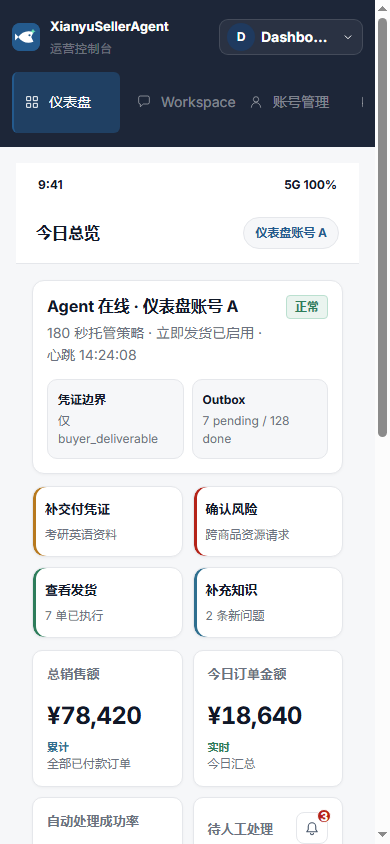
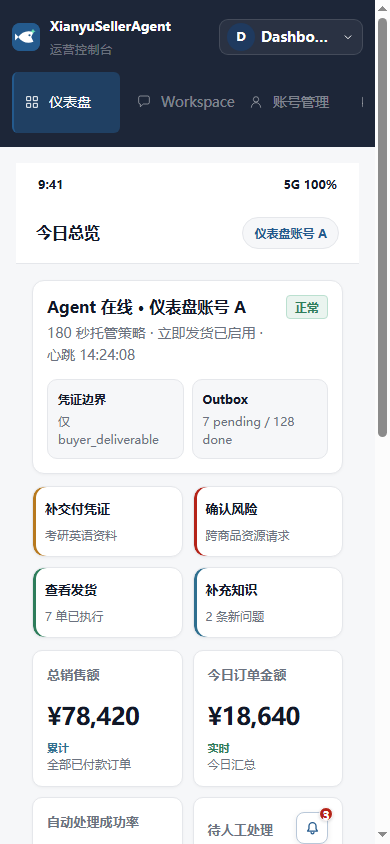
fix(仪表盘): 收紧铃铛气泡定位与对比度

diff --git a/apps/web/src/features/dashboard/components/dashboard.css b/apps/web/src/features/dashboard/components/dashboard.css
@@ -40,9 +40,9 @@
 .dashboard-main-grid{display:grid;grid-template-columns:minmax(0,1fr);gap:14px}.dashboard-two-grid{display:grid;grid-template-columns:repeat(2,minmax(0,1fr));gap:14px}.dashboard-panel{padding:16px 18px;overflow:hidden}.dashboard-panel-head{display:flex;justify-content:space-between;align-items:flex-start;gap:12px;margin-bottom:12px}.dashboard-panel h2{margin:0 0 7px;font-size:13px;font-weight:700;color:var(--text)}.dashboard-panel p{margin:0;color:var(--sub);font-size:12px;line-height:1.65}.dashboard-trend-head-actions{display:flex;align-items:center;justify-content:flex-end;gap:8px;flex-wrap:wrap}.dashboard-trend-controls{display:flex;align-items:center;justify-content:flex-end;gap:6px;flex-wrap:wrap}.dashboard-trend-select,.dashboard-trend-date{height:32px;padding:0 9px;border:1px solid var(--border);border-radius:8px;background:#fff;color:var(--muted);font-size:11px;font-weight:700}.dashboard-trend-date{width:126px;font-weight:500}.dashboard-trend-date-separator{color:var(--sub);font-size:11px}.dashboard-trend-apply{height:32px;padding:0 10px;font-size:11px}.dashboard-chart-wrap{height:286px;position:relative}.dashboard-chart-wrap svg{width:100%;height:232px;stroke:none;display:block}.dashboard-chart-grid{stroke:#F3F4F6;stroke-width:1;stroke-dasharray:3 3}.dashboard-chart-line{fill:none;stroke:var(--link);stroke-width:1.5;stroke-linecap:round;stroke-linejoin:round}.dashboard-chart-line-secondary{stroke:var(--success)}.dashboard-chart-hover-line{stroke:#CBD5E1;stroke-width:1;stroke-dasharray:2 2}.dashboard-chart-dot{stroke:#fff;stroke-width:1.5}.dashboard-chart-dot-primary{fill:var(--link)}.dashboard-chart-dot-secondary{fill:var(--success)}.dashboard-chart-tooltip{position:absolute;top:6px;z-index:2;display:grid;gap:3px;min-width:148px;transform:translateX(-50%);padding:8px 10px;border:1px solid var(--border);border-radius:8px;background:#fff;box-shadow:0 4px 12px rgba(0,0,0,.08);color:var(--muted);font-size:11px;pointer-events:none}.dashboard-chart-tooltip strong{color:var(--text);font-size:11px}.dashboard-chart-legend{display:flex;gap:16px;align-items:center;color:var(--sub);font-size:11px}.dashboard-chart-legend span{display:inline-flex;align-items:center;gap:6px}.dashboard-legend-line{width:20px;height:2px;border-radius:2px;display:inline-block}.dashboard-legend-line.primary{background:var(--link)}.dashboard-legend-line.secondary{background:var(--success)}
 .dashboard-data-table{display:grid;border:1px solid var(--border);border-radius:10px;overflow:hidden}.dashboard-table-head,.dashboard-table-row{display:grid;grid-template-columns:1.6fr .5fr .5fr .7fr;align-items:center;gap:12px;padding:12px 14px;border-bottom:1px solid var(--border);font-size:12px}.dashboard-table-head{background:var(--bg);color:var(--sub);font-size:11px;font-weight:800}.dashboard-table-row:last-child{border-bottom:0}.dashboard-table-row b{display:block;margin-bottom:3px;font-size:13px}.dashboard-table-row small{color:var(--sub);font-size:11px}.dashboard-empty-row{padding:24px 14px;color:var(--sub);font-size:12px;text-align:center}
 .dashboard-timeline{display:grid;gap:10px}.dashboard-timeline-row{display:grid;grid-template-columns:64px 1fr auto;gap:10px;align-items:center;padding:12px;border:1px solid var(--border);border-radius:10px;background:#fff;font-size:12px;text-align:left}.dashboard-timeline-row:hover{background:#F8FAFC}.dashboard-timeline-row strong{font-size:11px;color:var(--muted)}.dashboard-timeline-row span{line-height:1.45;color:var(--text)}
-.dashboard-risk-popover{position:absolute;top:calc(100% + 8px);right:14px;z-index:8;width:min(320px,calc(100vw - 32px));padding:12px;border:1px solid #D6E5F2;border-radius:10px;background:#fff;box-shadow:0 14px 32px rgba(17,24,39,.14);text-align:left}.dashboard-risk-popover-head{display:flex;align-items:flex-start;justify-content:space-between;gap:12px;padding:2px 2px 10px;border-bottom:1px solid var(--border)}.dashboard-risk-popover-head strong,.dashboard-risk-popover-head span{display:block}.dashboard-risk-popover-head strong{color:var(--text);font-size:12px}.dashboard-risk-popover-head span{margin-top:3px;color:var(--sub);font-size:10px}.dashboard-risk-popover-count{min-width:22px;height:22px;padding:0 6px;border-radius:999px;background:var(--warn-bg);color:var(--warn);font-size:11px!important;font-weight:800;line-height:22px;text-align:center}.dashboard-risk-popover-list{display:grid;gap:6px;padding-top:8px}.dashboard-risk-popover-item{display:grid;grid-template-columns:8px minmax(0,1fr) auto;align-items:start;gap:8px;width:100%;padding:8px 2px;border:0;background:transparent;color:var(--text);text-align:left}.dashboard-risk-popover-item:hover{background:var(--bg)}.dashboard-risk-popover-dot{width:7px;height:7px;margin-top:5px;border-radius:999px;background:var(--info)}.dashboard-risk-popover-item.dashboard-risk-high .dashboard-risk-popover-dot{background:var(--danger)}.dashboard-risk-popover-item.dashboard-risk-medium .dashboard-risk-popover-dot{background:var(--warn)}.dashboard-risk-popover-copy{min-width:0}.dashboard-risk-popover-copy strong,.dashboard-risk-popover-copy small{display:block;overflow:hidden;text-overflow:ellipsis;white-space:nowrap}.dashboard-risk-popover-copy strong{font-size:11px}.dashboard-risk-popover-copy small{margin-top:3px;color:var(--sub);font-size:10px}.dashboard-risk-popover-action{padding-top:1px;color:var(--link);font-size:10px;font-weight:800}.dashboard-risk-popover-empty{margin:10px 2px 2px;color:var(--sub);font-size:11px}
+.dashboard-kpi-bell-wrap{position:relative;z-index:4;display:flex;flex:0 0 auto}.dashboard-risk-popover{position:absolute;top:calc(100% + 6px);right:0;z-index:8;width:min(320px,calc(100vw - 32px));padding:12px;border:1px solid #D6E5F2;border-radius:10px;background:#fff;box-shadow:0 14px 32px rgba(17,24,39,.14);text-align:left}.dashboard-risk-popover-head{display:flex;align-items:flex-start;justify-content:space-between;gap:12px;padding:2px 2px 10px;border-bottom:1px solid var(--border)}.dashboard-risk-popover-head strong,.dashboard-risk-popover-head span{display:block}.dashboard-risk-popover-head strong{color:var(--text);font-size:12px}.dashboard-risk-popover-head span{margin-top:3px;color:var(--sub);font-size:10px}.dashboard-risk-popover-count{min-width:22px;height:22px;padding:0 6px;border-radius:999px;background:var(--warn-bg);color:var(--warn);font-size:11px!important;font-weight:800;line-height:22px;text-align:center}.dashboard-risk-popover-list{display:grid;gap:6px;padding-top:8px}.dashboard-risk-popover-item{display:grid;grid-template-columns:8px minmax(0,1fr) auto;align-items:start;gap:8px;width:100%;padding:8px 2px;border:0;background:transparent;color:var(--text);text-align:left}.dashboard-risk-popover-item:hover{background:var(--bg)}.dashboard-risk-popover-dot{width:7px;height:7px;margin-top:5px;border-radius:999px;background:var(--info)}.dashboard-risk-popover-item.dashboard-risk-high .dashboard-risk-popover-dot{background:var(--danger)}.dashboard-risk-popover-item.dashboard-risk-medium .dashboard-risk-popover-dot{background:var(--warn)}.dashboard-risk-popover-copy{min-width:0}.dashboard-risk-popover-copy strong,.dashboard-risk-popover-copy small{display:block;overflow:hidden;text-overflow:ellipsis;white-space:nowrap}.dashboard-risk-popover-copy strong{font-size:11px}.dashboard-risk-popover-copy small{margin-top:3px;color:var(--sub);font-size:10px}.dashboard-risk-popover-action{padding-top:1px;color:var(--link);font-size:10px;font-weight:800}.dashboard-risk-popover-empty{margin:10px 2px 2px;color:var(--sub);font-size:11px}
 .dashboard-state-stack{min-height:100%}.dashboard-state-card{display:grid;gap:10px;align-content:center;justify-items:start;min-height:300px;padding:24px;border:1px dashed #C8D8EA;border-radius:10px;background:#fff}.dashboard-state-card strong{font-size:15px}.dashboard-state-card p{margin:0;color:var(--sub);font-size:12px;line-height:1.6}.dashboard-state-forbidden{border-color:rgba(180,35,24,.22);background:var(--danger-bg)}.dashboard-state-timeout{border-color:rgba(183,121,31,.24);background:var(--warn-bg)}.dashboard-state-error{border-color:rgba(180,35,24,.22);background:#FFF8F7}.dashboard-skeleton-title{width:220px;height:20px;border-radius:6px;background:linear-gradient(90deg,#EEF2F7 25%,#F8FAFC 50%,#EEF2F7 75%);background-size:200% 100%;animation:dashboard-shimmer 1.4s infinite}.dashboard-skeleton-copy{width:420px;height:12px;border-radius:6px;background:#F1F5F9}.dashboard-skeleton-grid{display:grid;grid-template-columns:repeat(4,1fr);gap:14px;width:100%;margin-top:8px}.dashboard-skeleton-grid span{height:108px;border-radius:10px;background:linear-gradient(90deg,#EEF2F7 25%,#F8FAFC 50%,#EEF2F7 75%);background-size:200% 100%;animation:dashboard-shimmer 1.4s infinite}.dashboard-mobile-frame{display:none}
-.dashboard-icon-button{position:relative;width:32px;height:32px;display:grid;place-items:center;border:1px solid var(--border);border-radius:8px;background:#fff;color:var(--muted)}.dashboard-icon-button b{position:absolute;top:-4px;right:-4px;width:14px;height:14px;border-radius:999px;background:var(--danger);border:1.5px solid #fff;color:#fff;font-size:8px;line-height:12px}.dashboard-kpi-bell{flex:0 0 auto}.dashboard-pending-manual-card{z-index:2}
+.dashboard-icon-button{position:relative;width:32px;height:32px;display:grid;place-items:center;border:1px solid var(--border);border-radius:8px;background:#fff;color:var(--muted)}.dashboard-icon-button b{position:absolute;top:-4px;right:-4px;width:14px;height:14px;border-radius:999px;background:var(--danger);border:1.5px solid #fff;color:#fff;font-size:8px;line-height:12px}.dashboard-kpi-bell{flex:0 0 auto;background:#fff;border-color:#B9C8D9;color:var(--link);box-shadow:0 2px 6px rgba(17,24,39,.08)}.dashboard-kpi-bell:hover{background:#F8FAFC;border-color:#8EA8C3;color:var(--link)}.dashboard-kpi-bell:focus-visible{outline:2px solid rgba(36,90,141,.28);outline-offset:2px}.dashboard-kpi-bell .dashboard-icon{width:17px;height:17px;stroke-width:1.8}.dashboard-kpi-bell b{top:-6px;right:-6px;box-shadow:0 1px 3px rgba(17,24,39,.16)}.dashboard-pending-manual-card{z-index:2}
 .dashboard-risk-drawer{position:fixed;inset:0;z-index:40;display:flex;justify-content:flex-end;background:rgba(17,24,39,.24);backdrop-filter:blur(4px)}.dashboard-risk-drawer-card{width:min(420px,calc(100vw - 28px));height:100%;padding:24px;background:#fff;box-shadow:-18px 0 48px rgba(17,24,39,.16)}.dashboard-risk-drawer-head{display:flex;justify-content:space-between;gap:14px;align-items:flex-start;margin-bottom:18px}.dashboard-risk-drawer-head h2{margin:0;font-size:18px}.dashboard-risk-drawer-card>p{color:var(--muted);font-size:13px;line-height:1.65}.dashboard-risk-drawer-meta{display:flex;justify-content:space-between;align-items:center;margin-top:22px;padding:12px;border-radius:10px;background:var(--bg);font-size:12px}.dashboard-risk-drawer-actions{display:flex;justify-content:flex-end;gap:8px;margin-top:24px}
 .dashboard-mobile-status,.dashboard-mobile-head,.dashboard-mobile-main,.dashboard-mobile-tabs{display:none}
 @keyframes dashboard-shimmer{0%{background-position:200% 0}100%{background-position:-200% 0}}
@@ -53,7 +53,7 @@
   .dashboard-mobile-status{height:44px;flex:0 0 44px;display:flex;align-items:center;justify-content:space-between;padding:0 22px;background:#fff;color:var(--text);font-size:12px;font-weight:700}.dashboard-mobile-head{flex:0 0 auto;display:flex;justify-content:space-between;align-items:center;padding:10px 20px 14px;background:#fff;border-bottom:1px solid var(--border)}.dashboard-mobile-head strong{font-size:16px}.dashboard-mobile-head-actions{display:flex;align-items:center;gap:8px}.dashboard-mobile-account-chip{height:32px;padding:0 11px;border:1px solid var(--border);border-radius:999px;background:var(--bg);color:var(--link);font-size:12px;font-weight:800}.dashboard-mobile-main{flex:1;overflow:auto;display:flex;flex-direction:column;gap:14px;padding:14px 16px 92px}.dashboard-mobile-tabs{position:absolute;bottom:0;left:0;right:0;display:flex;justify-content:space-around;gap:0;padding:8px 0 24px;border-top:1px solid var(--border);background:#fff}.dashboard-mobile-tabs button{border:0;background:transparent;color:var(--axis);display:grid;justify-items:center;gap:3px;font-size:9px;min-width:42px}.dashboard-mobile-tabs .dashboard-icon{width:34px;height:26px;padding:6px 8px;border-radius:8px}.dashboard-mobile-tabs button.active{color:var(--link);font-weight:800}.dashboard-mobile-tabs button.active .dashboard-icon{background:var(--soft-blue-bg)}
   .dashboard-mobile-page{display:flex;flex-direction:column;gap:12px}.dashboard-mobile-status-summary{padding:14px;border-radius:12px}.dashboard-mobile-section-head{display:flex;align-items:flex-start;justify-content:space-between;gap:10px;margin-bottom:12px}.dashboard-mobile-section-head h2{margin:0 0 4px;font-size:13px}.dashboard-mobile-section-head p{margin:0;font-size:11px;line-height:1.45}.dashboard-mobile-health-grid{display:grid;grid-template-columns:1fr 1fr;gap:8px}.dashboard-mobile-health-grid span{padding:10px;border:1px solid var(--border);border-radius:10px;background:var(--bg)}.dashboard-mobile-health-grid b{display:block;margin-bottom:3px;color:var(--text);font-size:12px}.dashboard-mobile-health-grid small{display:block;color:var(--sub);font-size:10px}
   .dashboard-mobile-quick-grid{display:grid;grid-template-columns:repeat(2,1fr);gap:10px}.dashboard-mobile-quick-card{min-height:68px;text-align:left;border:1px solid var(--border);border-radius:12px;background:#fff;padding:12px;box-shadow:var(--shadow-card)}.dashboard-mobile-quick-card span{display:block;margin-bottom:6px;color:var(--text);font-size:13px;font-weight:800}.dashboard-mobile-quick-card small{display:block;color:var(--sub);font-size:11px}.dashboard-tone-card-ok{box-shadow:inset 3px 0 0 var(--success),0 1px 3px rgba(0,0,0,.04)}.dashboard-tone-card-warn{box-shadow:inset 3px 0 0 var(--warn),0 1px 3px rgba(0,0,0,.04)}.dashboard-tone-card-danger{box-shadow:inset 3px 0 0 var(--danger),0 1px 3px rgba(0,0,0,.04)}.dashboard-tone-card-info{box-shadow:inset 3px 0 0 var(--info),0 1px 3px rgba(0,0,0,.04)}
-  .dashboard-mobile-kpis{display:grid;grid-template-columns:repeat(2,1fr);gap:10px}.dashboard-mobile-kpis .dashboard-kpi-card{padding:14px}.dashboard-mobile-kpis .dashboard-kpi-value{font-size:22px}.dashboard-mobile-kpis .dashboard-kpi-label{min-height:26px}.dashboard-mobile-kpis .dashboard-kpi-delta{align-items:flex-start;flex-direction:column;gap:1px}.dashboard-mobile-kpis .dashboard-kpi-delta small{line-height:1.2}.dashboard-mobile-kpis .dashboard-risk-popover{left:auto;right:0;width:min(300px,calc(100vw - 52px))}
+  .dashboard-mobile-kpis{display:grid;grid-template-columns:repeat(2,1fr);gap:10px}.dashboard-mobile-kpis .dashboard-kpi-card{padding:14px}.dashboard-mobile-kpis .dashboard-kpi-value{font-size:22px}.dashboard-mobile-kpis .dashboard-kpi-label{min-height:26px}.dashboard-mobile-kpis .dashboard-kpi-delta{align-items:flex-start;flex-direction:column;gap:1px}.dashboard-mobile-kpis .dashboard-kpi-delta small{line-height:1.2}
   .dashboard-mobile-task-card{padding:14px;border-radius:12px}.dashboard-mobile-task-list{display:grid;gap:9px}.dashboard-mobile-task-row{min-height:64px;display:grid;grid-template-columns:4px 1fr auto;align-items:center;gap:10px;width:100%;border:1px solid var(--border);border-radius:10px;background:#fff;padding:10px;text-align:left}.dashboard-mobile-task-row i{width:4px;height:38px;border-radius:4px;background:var(--info)}.dashboard-mobile-task-row.urgent i{background:var(--warn)}.dashboard-mobile-task-row strong{display:block;margin-bottom:3px;color:var(--text);font-size:13px}.dashboard-mobile-task-row span{display:block;color:var(--sub);font-size:11px;line-height:1.35}
   .dashboard-mobile-pulse-card{padding:14px;border-radius:12px}.dashboard-mobile-pulse-card .dashboard-chart-wrap{height:190px}.dashboard-mobile-pulse-card .dashboard-chart-wrap svg{height:148px}.dashboard-mobile-pulse-card .dashboard-chart-legend{margin-top:0}.dashboard-text-button{border:0;background:transparent;color:var(--link);font-size:12px;font-weight:800}.dashboard-mobile-state{display:block}.dashboard-mobile-state .dashboard-page-stack{gap:0}.dashboard-mobile-state .dashboard-page-title{display:none}.dashboard-mobile-state .dashboard-state-card{min-height:280px}
   .dashboard-risk-drawer{align-items:flex-end}.dashboard-risk-drawer-card{width:100%;height:auto;max-height:70vh;padding:18px;border-radius:18px 18px 0 0}

diff --git a/apps/web/src/features/dashboard/components/DashboardViews.tsx b/apps/web/src/features/dashboard/components/DashboardViews.tsx
@@ -176,17 +176,19 @@ function PendingManualKpiCard({ kpi, riskTodos, onOpenTodo, surface }: { kpi: Da
   return <article ref={cardRef} className="dashboard-card dashboard-kpi-card dashboard-pending-manual-card" data-testid={`pending-manual-card-${surface}`}>
     <div className="dashboard-kpi-card-head">
       <div className="dashboard-kpi-label">{kpi.label}</div>
-      <button type="button" className="dashboard-icon-button dashboard-kpi-bell" data-testid={`pending-manual-bell-${surface}`} aria-label={open ? '收起待人工处理' : '展开待人工处理'} aria-haspopup="dialog" aria-controls={popoverId} aria-expanded={open} onClick={() => setOpen((current) => !current)}>
-        <Icon name="bell"/>
-        <b>{riskTodos.length}</b>
-      </button>
+      <div className="dashboard-kpi-bell-wrap">
+        <button type="button" className="dashboard-icon-button dashboard-kpi-bell" data-testid={`pending-manual-bell-${surface}`} aria-label={open ? '收起待人工处理' : '展开待人工处理'} aria-haspopup="dialog" aria-controls={popoverId} aria-expanded={open} onClick={() => setOpen((current) => !current)}>
+          <Icon name="bell"/>
+          <b>{riskTodos.length}</b>
+        </button>
+        {open ? <div id={popoverId} className="dashboard-risk-popover" data-testid="risk-popover" role="dialog" aria-modal="false" aria-label="待人工处理风险待办">
+          <div className="dashboard-risk-popover-head"><div><strong>待处理风险</strong><span>{riskTodos.length} 个动作需要关注</span></div><span className="dashboard-risk-popover-count">{riskTodos.length}</span></div>
+          {visibleTodos.length ? <div className="dashboard-risk-popover-list">{visibleTodos.map((todo) => <button type="button" key={todo.id} className={`dashboard-risk-popover-item dashboard-risk-${todo.severity}`} onClick={() => { setOpen(false); onOpenTodo(todo.id); }}><span className="dashboard-risk-popover-dot"/><span className="dashboard-risk-popover-copy"><strong>{todo.title}</strong><small>{todo.detail}</small></span><span className="dashboard-risk-popover-action">查看</span></button>)}</div> : <p className="dashboard-risk-popover-empty">当前没有待人工处理事项</p>}
+        </div> : null}
+      </div>
     </div>
     <div className="dashboard-kpi-value">{kpi.value}</div>
     <div className="dashboard-kpi-delta"><span className={toneClass(kpi.tone)}>{kpi.delta}</span><small>{kpi.context}</small></div>
-    {open ? <div id={popoverId} className="dashboard-risk-popover" data-testid="risk-popover" role="dialog" aria-modal="false" aria-label="待人工处理风险待办">
-      <div className="dashboard-risk-popover-head"><div><strong>待处理风险</strong><span>{riskTodos.length} 个动作需要关注</span></div><span className="dashboard-risk-popover-count">{riskTodos.length}</span></div>
-      {visibleTodos.length ? <div className="dashboard-risk-popover-list">{visibleTodos.map((todo) => <button type="button" key={todo.id} className={`dashboard-risk-popover-item dashboard-risk-${todo.severity}`} onClick={() => { setOpen(false); onOpenTodo(todo.id); }}><span className="dashboard-risk-popover-dot"/><span className="dashboard-risk-popover-copy"><strong>{todo.title}</strong><small>{todo.detail}</small></span><span className="dashboard-risk-popover-action">查看</span></button>)}</div> : <p className="dashboard-risk-popover-empty">当前没有待人工处理事项</p>}
-    </div> : null}
   </article>;
 }
 

diff --git a/STATUS.md b/STATUS.md
@@ -214,3 +214,11 @@
 - 已验证：`npm --workspace apps/web run test -- --run src/features/dashboard/components/DashboardViews.test.tsx`（6/6）、`npm --workspace apps/web run typecheck`、`npm --workspace apps/web run build`、`npm --workspace apps/web run test:e2e:chrome:dashboard`、`git diff --check`；桌面/移动截图已更新至 `docs/evidence/stage5/S4-VS-DASHBOARD/screenshots/`。
 - 部分验证：`npm --workspace apps/web run test` 为 72/73 文件、240/241 用例通过；唯一失败是既有 `App.dashboard-mode.test.ts` 在未包裹 `AccountContextProvider` 时直接渲染 `DashboardPage`，与本切片无关，已登记为开放风险，未修改无关测试。
 - 人工审核后：确认视觉与交互后再由维护者将本分支合入 `main`；本 worktree 不执行合并。
+
+## 2026-09-22 Dashboard 铃铛气泡视觉修正
+
+- 当前 worktree：`F:\ChenHai\Project\XianYuAgent-dashboard-risk-bell-adjust-20260922`；分支：`codex/dashboard-risk-bell-adjust-20260922`；状态：`READY_FOR_REVIEW`。
+- 修正范围：气泡改为以铃铛外层为定位锚点，紧贴铃铛右下方展开；铃铛改为白底、深色图标、明确边框和轻阴影，避免透明感。
+- 回归约束：桌面/移动 E2E 增加气泡与铃铛的间距、右边缘对齐及移动视口不溢出断言。
+- 已验证：`npm --workspace apps/web run test:e2e:chrome:dashboard`、`npm --workspace apps/web run test -- --run src/features/dashboard/components/DashboardViews.test.tsx`（6/6）、`npm --workspace apps/web run typecheck`、`git diff --check`；截图已重新生成。
+- 后续：等待人工审核后，再将本修正分支合入 `main`。

diff --git a/docs/05-review-log.md b/docs/05-review-log.md
@@ -482,3 +482,11 @@
 | S5-R95 | 前端 / 视觉 / 可访问性 | 右列移动卡片定位、Escape/外部点击关闭、动态 aria 文案、固定 1440×900/390×844 截图与构建回归 | root + dashboard_risk_card_audit | PASS（受控环境） | `dashboard.css`；`npm --workspace apps/web run typecheck`；`npm --workspace apps/web run build`；`npm --workspace apps/web run test:e2e:chrome:dashboard`；`docs/evidence/stage5/S4-VS-DASHBOARD/screenshots/` |
 
 本轮结论：铃铛已按最新产品约束嵌入“待人工处理”小卡片，不新增顶部标题栏。目标切片达到 `READY_FOR_REVIEW`；全量 Web 单测仍有一个既有 `AccountContextProvider` 测试夹具失败，未将其误报为本切片通过。
+
+### 2026-09-22：Dashboard 铃铛气泡视觉修正复审
+
+| 评审编号 | 类型 | 评审重点 | 评审人 | 结论 | 证据 |
+| --- | --- | --- | --- | --- | --- |
+| S5-R96 | 前端 / 视觉 / 端到端 | 气泡是否贴近铃铛、铃铛是否具备足够对比度、移动右列是否不溢出 | root + dashboard_risk_card_audit | PASS（受控环境） | `DashboardViews.tsx`、`dashboard.css`；桌面/移动截图；E2E 几何断言 |
+
+本轮结论：气泡从卡片底部定位改为铃铛触发器定位，铃铛改为实心高对比样式；当前修正分支等待人工审核后再合入 `main`。
